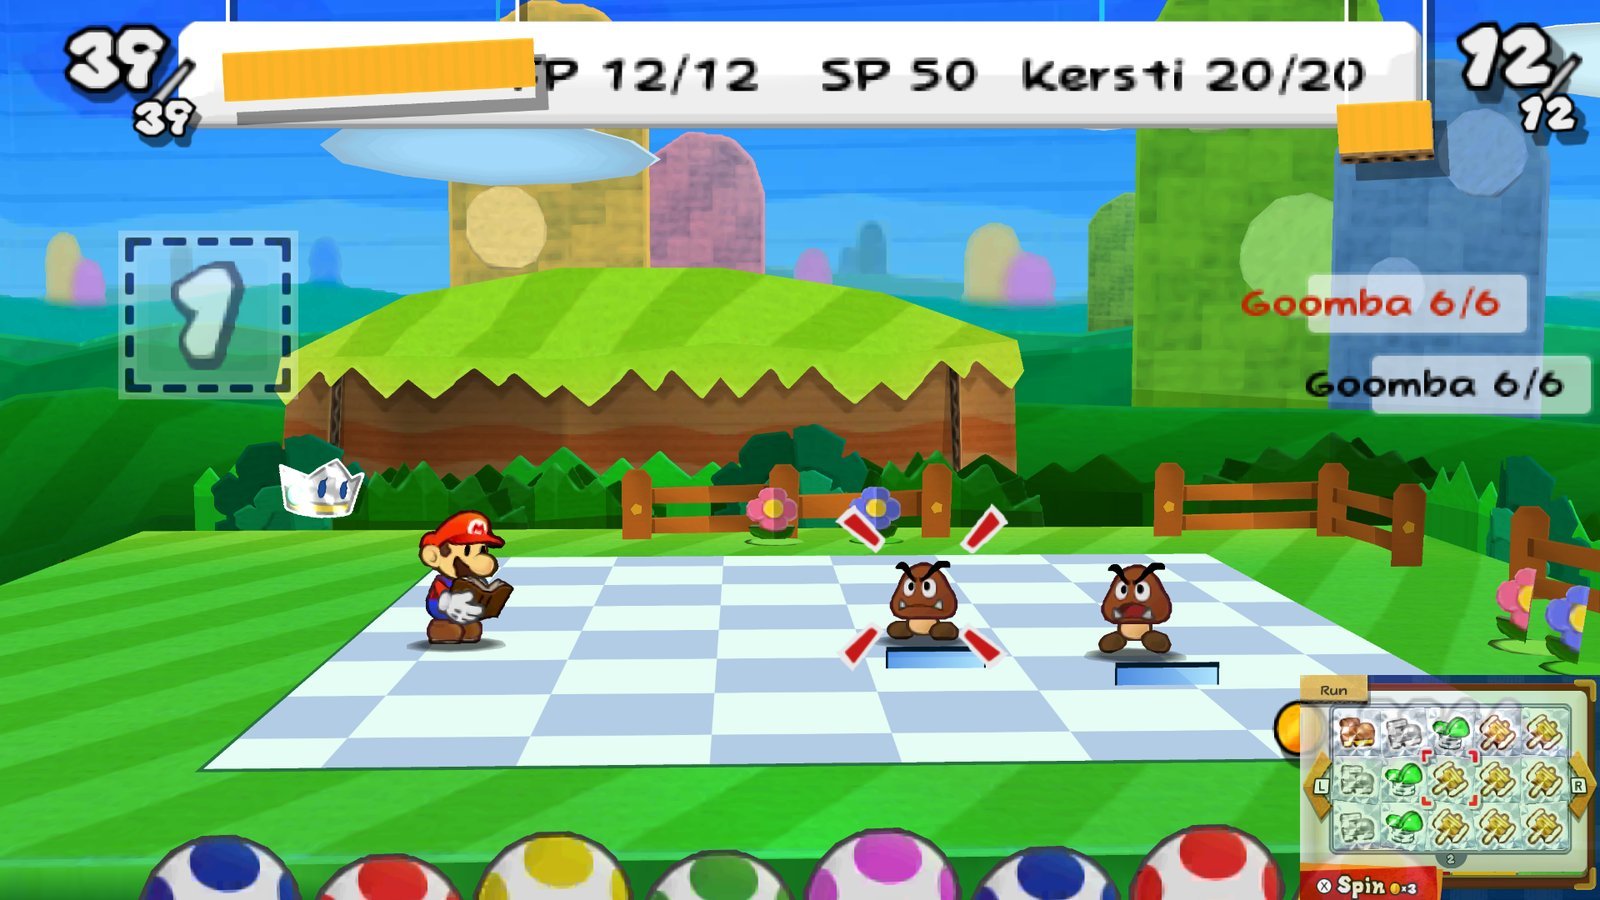
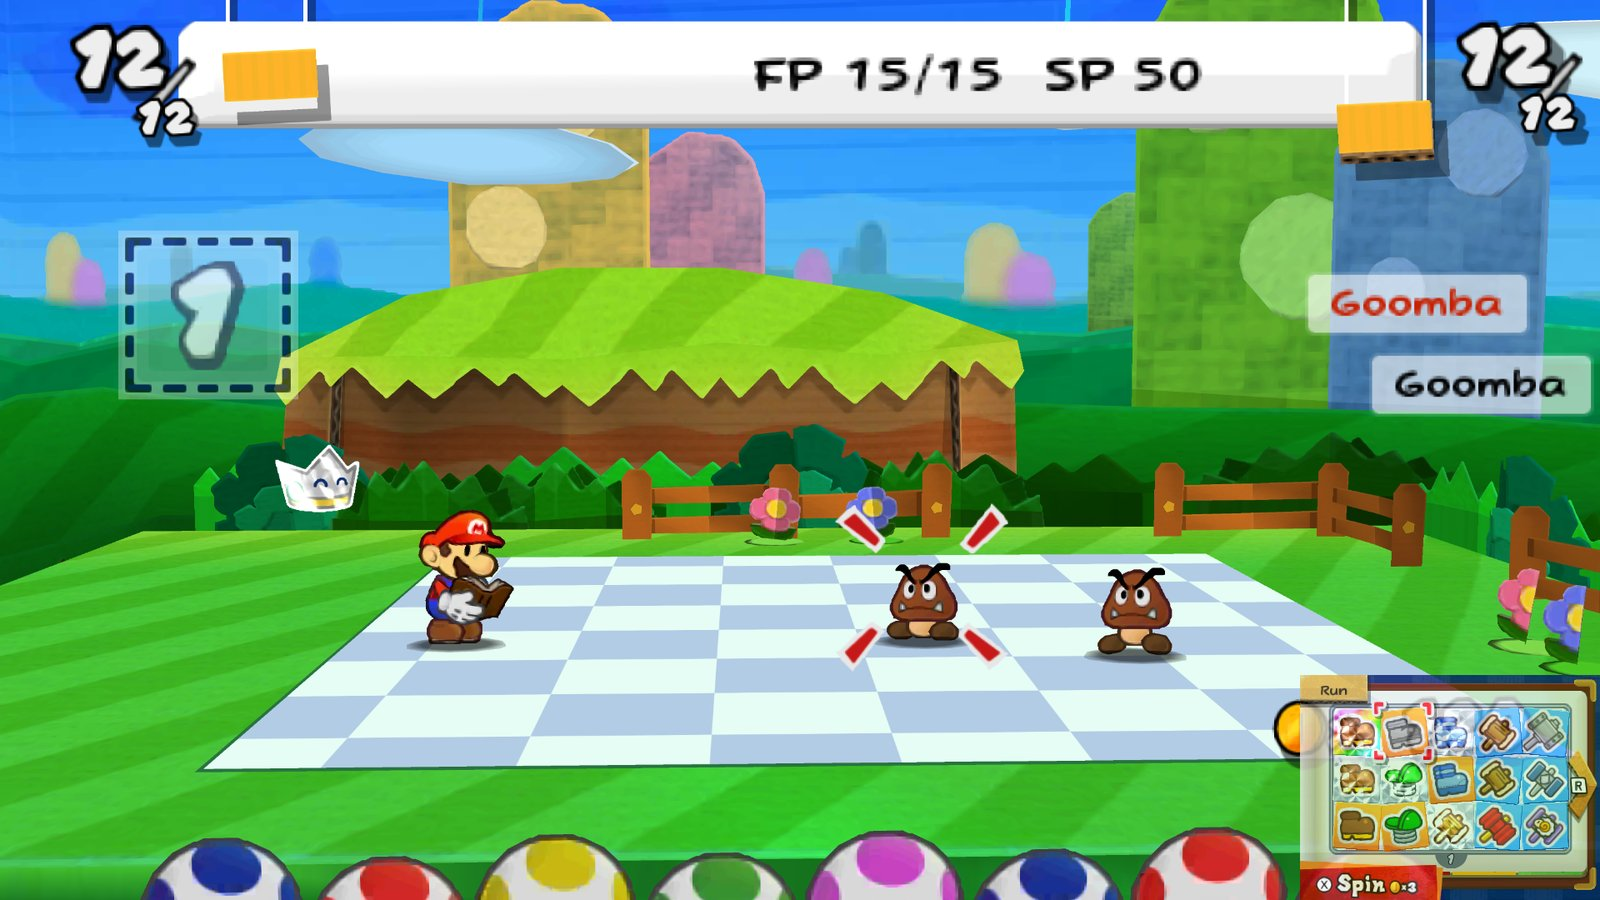
Use the new battle screenshot

diff --git a/index.html b/index.html
@@ -109,7 +109,7 @@ footer { margin: 56px 0 0; padding: 28px 0 40px; border-top: 2px dashed var(--li
     <a class="btn" href="#install">How to play</a>
     <a class="btn alt" href="#features">See every change</a>
   </div>
-  <a class="shot" href="assets/battle.jpg" title="Open the full-size screenshot"><img src="assets/battle.jpg" alt="A battle in Sticker Star Re-Glued: Mario and Kersti face two Goombas, with the FP / SP bar along the top, HP labels over the enemies and the sticker album in the corner" width="1600" height="900"></a>
+  <a class="shot" href="assets/battle.jpg" title="Open the full-size screenshot"><img src="assets/battle.jpg" alt="A battle in Sticker Star Re-Glued: Mario and Kersti face two Goombas, with the FP / SP bar along the top, enemy name labels and the sticker album in the corner" width="1600" height="900"></a>
 </header>
 
 <nav class="toc" id="features">
